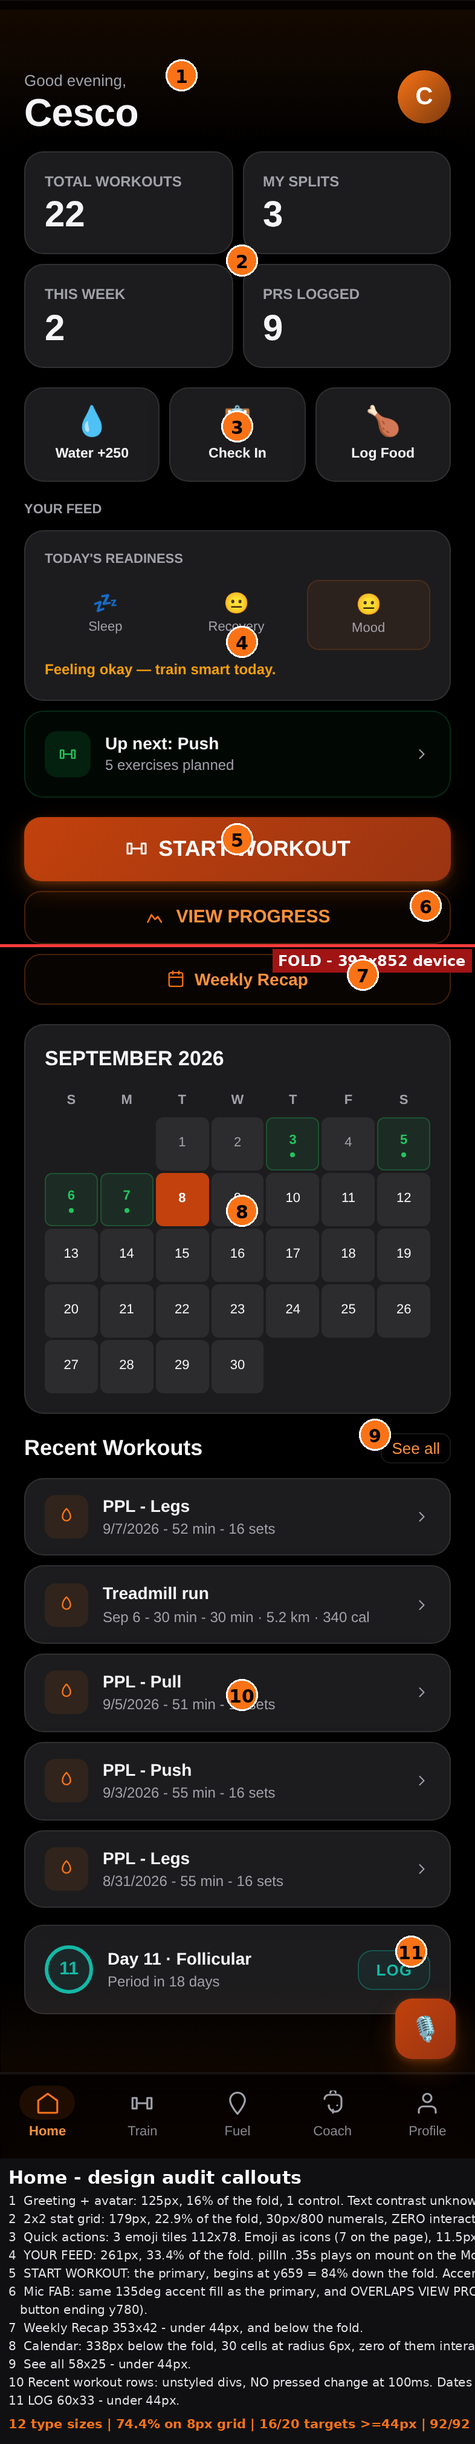
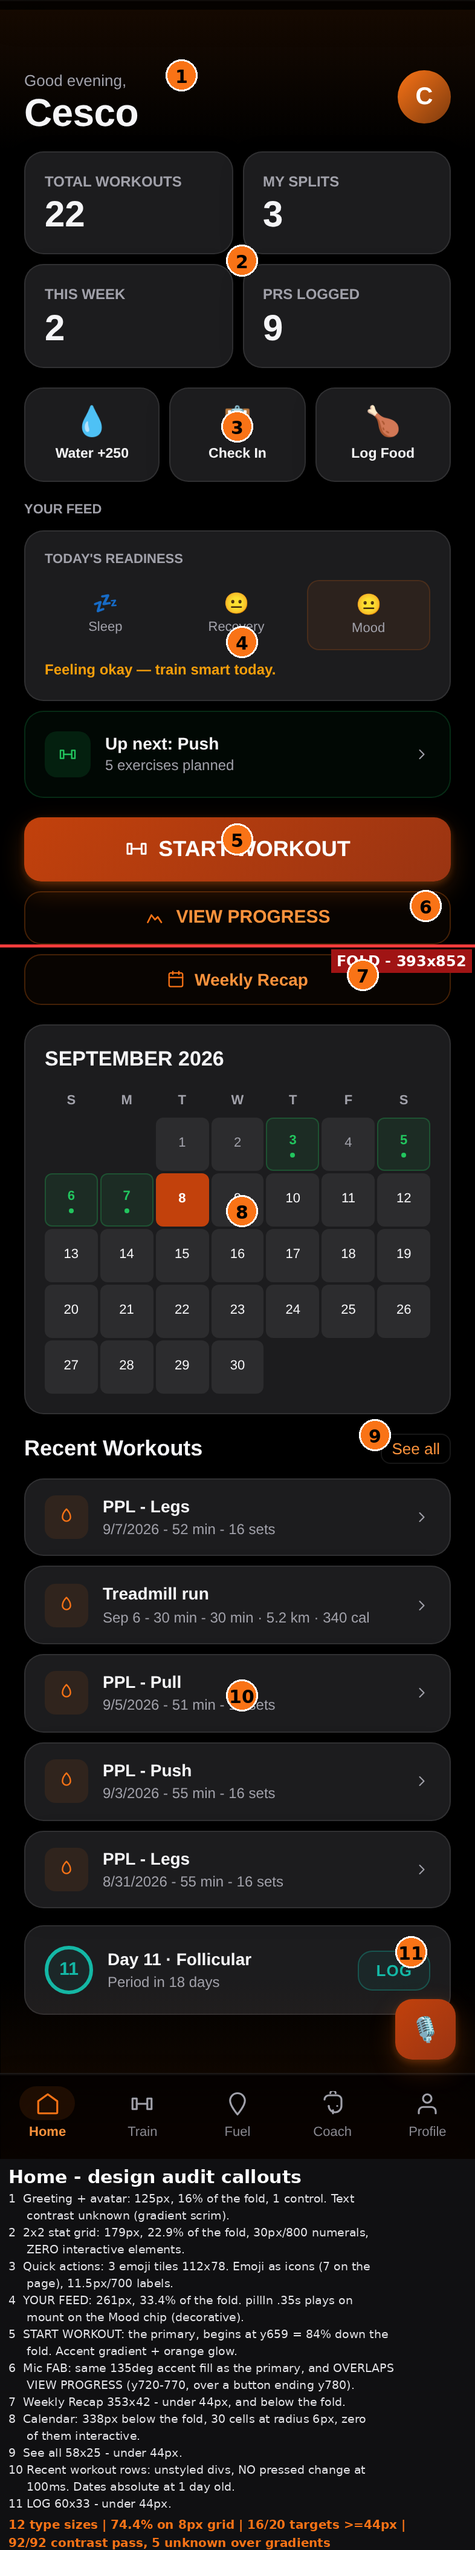
redesign: design audit home
Claude-Session: https://claude.ai/code/session_01YJKewqmQsqV5sHch9jXM4P

diff --git a/redesign/02-audit-design/progress.md b/redesign/02-audit-design/progress.md
@@ -1,51 +1,49 @@
 # Design Audit — Progress (`progress`)
 
-Evidence: `00-inventory/screenshots/current/progress-*.png`; `tests/baseline/scans/progress.json`; my own Playwright runs against `http://127.0.0.1:4173/tests/app/index.html` (iPhone 15 Pro, 393x852 CSS, seeded).
+Evidence: `00-inventory/screenshots/current/progress-*.png`; `tests/baseline/scans/progress.json`; my own Playwright runs on `http://127.0.0.1:4173/tests/app/index.html` (iPhone 15 Pro, 393x852, seeded).
 
 ## 1. Squint and 5-second test
 
-8px Gaussian blur on `progress-populated.png`. Two objects survive: the filled orange **Overview tab pill** and the global voice FAB. Next is the repeating green PR column (three identical bright blocks), then three grey slabs of equal mass. `ADD LIFT` — the page's only page-level action — blurs to a dim dashed band darker than the tab pill. **The element that wins is a navigation control, not an action.**
-
-5-second read: first the word PROGRESS, second the orange pill (read as "I am on Overview"), third the three cards. A first-time user calls this "a list of three lifts and their records" and does not see that the page also owns goals, a calendar, photos and a PR vault, because the fifth tab is off-screen.
+8px blur on `progress-populated.png`: two objects survive — the filled orange **Overview tab pill** and the global voice FAB. Next the repeating green PR column, then three grey slabs of equal mass. `ADD LIFT`, the page's only action, blurs to a band dimmer than the tab pill. **The winning element is a navigation control.** In 5 seconds a user reads PROGRESS, then "I am on Overview", then three lift cards, and calls the page "three lifts and their records" — never seeing that it also owns goals, a calendar, photos and a PR vault, because the fifth tab is off-screen.
 
 ## 2. Callouts
 
-See `progress-annotated.png`, markers 1-8, legend on the image.
+`progress-annotated.png`, markers 1-8, legend on the image.
 
 ## 3. Measurements
 
-**Tab strip (the page-specific question).** Container `clientWidth` 353px (`overflow-x: auto`, gap 8, padding 0). Content = 5 tabs (91.8 + 70.1 + 89.6 + 78.1 + 86.8) + 4 gaps = **448.4px**, `scrollWidth` 448. Content is **127% of container**; 95px (21%) is off-screen at rest. Tab lefts/rights: Overview 20-111.8, Goals 119.8-190, Calendar 198-287.6, Photos 295.6-**373.7**, PR Vault 381.7-468.4. Container right edge is 373. So **three tabs fully visible, Photos clipped 0.7px (~1%), PR Vault clipped 86.8px = 100%**. There is no chevron, no gradient mask, no partial peek and no scroll indicator; the strip is visually flush. This is a tab bar, not a labelled carousel, so **checklist 9 fails on scroll as well as on targets**. Root `scrollWidth` 393 = `clientWidth` 393, so the page-level check passes and hides the defect.
+**Tab strip.** Container `clientWidth` **353px** (`overflow-x:auto`, gap 8, pad 0); content = 5 tabs (91.8+70.1+89.6+78.1+86.8) + 4 gaps = **448.4px**, `scrollWidth` 448 — **127% of container, 95px (21%) off-screen at rest**. Rights: Overview 111.8, Goals 190, Calendar 287.6, Photos **373.7**, PR Vault 468.4; container edge 373. So **three tabs fully visible, Photos clipped 0.7px (1%), PR Vault clipped 86.8px = 100%**. No chevron, mask, peek or indicator. A tab bar is not a labelled carousel, so **item 9 fails on scroll as well as targets**. Root `scrollWidth` 393 = `clientWidth`, so the page-level check passes and hides it.
 
-**Contrast.** `scans/progress.json`: 37 checked, 37 pass, 0 fail, **6 unknown ("gradient")**. I resolved all six by sampling the rendered pixel under each node in `progress-populated.png`: unselected tab `#a1a1aa` on `#141315` = **7.23:1**; `PROGRESS` white on `#0d0601` = 20.12:1; selected tab white on `#c2410c` = **5.18:1**; PR green `#22c55e` on `#1c1c1e` = 7.47:1; accent `#fb923c` on `#1c1c1e` = 7.52:1. **43/43 pass (100%).**
+**Contrast.** `scans/progress.json`: 37 checked, 37 pass, 0 fail, **6 unknown ("gradient")**. I resolved all six by sampling the rendered pixel under each node in `progress-populated.png`: unselected tab `#a1a1aa` on `#141315` 7.23:1; `PROGRESS` 20.12:1; selected tab white on `#c2410c` **5.18:1**; PR green 7.47:1; `#fb923c` 7.52:1. **43/43 = 100%.**
 
-**Targets.** 16 interactive elements, **7 under 44x44 (56% pass)**: Back 22x27; the five tabs 33px tall (92/70/90/78/87 wide); on Calendar, Previous month and Next month 34x39. `ADD LIFT` 353x42 and `NEW GOAL` 353x51.
+**Targets.** 16 controls, **7 under 44x44 (56% pass)**: Back 22x27; five tabs 33 tall; Calendar month arrows 34x39. `ADD LIFT` 353x42, `NEW GOAL` 353x51.
 
-**Spacing.** Non-zero padding/gap/margin longhands, full page, nav and FAB excluded: 114 values, **101 on {4,8,12,16,24,32} = 88.6%**. Off-grid: 2px x6 (goal progress-bar radius/height), 20px x6 (page gutter), 58px x1 (header top). No breaks documented.
+**Spacing.** Non-zero padding/gap/margin longhands, full page, nav and FAB out: 114 values, **101 on {4,8,12,16,24,32} = 88.6%**. Off-grid: 2 x6, 20 x6 (gutter), 58 x1. No breaks documented.
 
-**Typography.** Distinct computed sizes on visible text: Overview 8 (32, 22, 20, 18, 14, 13, 12, 11); Goals adds 15; Calendar adds 17 — **10 across the page**. Weights 400 x12, 600 x5, 700 x21, 800 x9. 700/800 sit on 11px caps (`FEATURED LIFTS`, `CURRENT PR`, `DAY 1`) and 13px tab labels. Line-height is `normal` at 13px, 20px and one 14px node; the rest are 1.45x.
+**Typography.** Distinct visible sizes: Overview 8 (32/22/20/18/14/13/12/11), Goals +15, Calendar +17 = **10**. Weights 400 x12, 600 x5, 700 x21, 800 x9; 700/800 sit on 11px caps (`FEATURED LIFTS`, `CURRENT PR`, `DAY 1`) and 13px tabs. `line-height: normal` at 13, 20 and one 14px node.
 
-**Numbers.** 19 numeric text nodes, **0 with `tabular-nums`**. Units adjacent ("72.5kg"). Dates: `7/30/2026` on cards, `2026-07-28`/`2026-09-08` on the body-weight chart, `Due: 2026-12-01` in goal detail — three renderings, all absolute, including a 1-day-old entry.
+**Numbers.** 19 numeric nodes, **0 `tabular-nums`**. Units adjacent. Dates render three ways — `7/30/2026`, `2026-07-28`, `Due: 2026-12-01` — all absolute, including a 1-day-old entry.
 
-**Motion.** Real `mouse.down`, 100ms read: `ADD LIFT` scale(0.97)+shadow ✓; tab Goals ✓; Back ✓; unpin-x ✓; `NEW GOAL` ✓; Previous/Next month ✓ — **5/5 (7/7)**. `button:disabled{opacity:.4;cursor:not-allowed}` exists. Animation inventory: **zero** `animation-name` on the page. Transitions: 27x `background-color, box-shadow 0.24s`, 1x `box-shadow, transform 0.2s`, 1x 6-property 0.3s, 1x `background-color, color 0.3s` — all caused, none decorative. No insertion animation on Featured Lifts or Goals, both of which grow.
+**Motion.** Real `mouse.down`, 100ms read: `ADD LIFT`, tab Goals, Back, unpin-x, `NEW GOAL`, Previous/Next month — **7/7 change** (scale .97 + shadow). `button:disabled{opacity:.4;cursor:not-allowed}` exists. **Zero `animation-name`** on the page; 30 transition rows (27x `background-color, box-shadow .24s`), all caused, none decorative, no insertion animation on two growable lists.
 
-**Dark.** L* body 2.2 -> card 10.3 -> nested stat panel 18.1, strictly increasing. Zero white-on-black text nodes. Three shadows: two achromatic (blur 24, 20); one **accent glow** `rgba(249,115,22,.25) 0 2px 6px, rgba(249,115,22,.22) 0 8px 22px`. Border `#f97316` (L* 63.7) sits on an L* 2.2 surface, +61 L*.
+**Dark.** L* body 2.2 -> card 10.3 -> nested panel 18.1, strictly increasing; zero white-on-black text nodes. Shadows: two achromatic (blur 24, 20) and one **accent glow** `rgba(249,115,22,.25) 0 2px 6px, rgba(249,115,22,.22) 0 8px 22px`. Border `#f97316` (L* 63.7) on an L* 2.2 surface, +61 L*.
 
-**Accessibility.** axe: 1 violation, `meta-viewport` (critical, global shell), 18 passes. Tabs carry `role=tab`/`aria-selected`; Back and unpin are labelled. Calendar day cells are plain `div`s (47x47, `cursor:auto`) with no role — the month's data is unreachable by keyboard. At 120% text: no clipped node, no root overflow.
+**Accessibility.** axe: 1 violation, `meta-viewport` (critical, shell), 18 passes. Tabs have `role=tab`/`aria-selected`. Calendar day cells are plain 47x47 `div`s (`cursor:auto`), no role — the month is unreachable by keyboard. 120% text: no clipped node, no root overflow.
 
 ## 4. Rubric scores
 
 | criterion | score | evidence |
 |---|---|---|
-| Hierarchy | 2 | Squint on `progress-populated.png`: the winner is the Overview tab pill; `ADD LIFT` blurs dimmer than a nav control. 1 accent-filled element on the page and it is not an action; 3 identical cards. |
-| Typography | 1 | 10 distinct sizes (`progress-populated`/`-goals`/`-calendar`); 700 x21 and 800 x9, on 11px caps and 13px tab labels; line-height `normal` at 13/14/20px. Rule: 8+ sizes with 700+ on <=15px running text = 1. |
-| Spacing | 3 | 101/114 non-zero longhands on grid = 88.6%; off-grid 2 x6, 20 x6, 58 x1; no breaks documented. Band 80-94% = 3. |
-| Contrast | 5 | scan 37/37 pass, 6 unknown resolved by pixel sampling to 5.18-20.12:1. 43/43 = 100% measured. |
-| Component consistency | 1 | Tab pattern B (pill, radius 20) is unique to this page against 4 other implementations; 11 distinct radii in one page (20/16/14/10/9/8/6/3/2/999/50%); SVG icons on Overview vs emoji on Goals; cards radius 16 (Overview) vs 14 (Goals). `progress-populated.png` + `-goals.png`. |
-| Targets | 1 | 9/16 meet 44px = 56%; Back 22x27, tabs 33 tall, month arrows 34x39. Below 75% = 1. |
-| Motion and feedback | 5 | 7/7 controls change within 100ms under real press; zero `animation-name`; all 30 transition rows caused. |
-| HIG fit | 1 | 3 sections violated in `progress-populated.png`/`-calendar.png`: Tab bars (5th tab 100% off-screen, 33px tall), Layout (7 controls <44px), Typography (800 weight at 11px caps, 10 sizes). |
-| AI-look penalty | 1 | 4 tells: emoji as icons (`progress-populated-goals.png`, 3), stacked equal-weight cards (3), mixed radii (11), decorative gradient washes (393x144 + 393x150). |
-| Accessibility | 3 | axe 1 critical (`meta-viewport`) caps at 3; calendar day cells unlabelled `div`s; 120% text clean. |
+| Hierarchy | 2 | Squint on `progress-populated.png`: winner is the Overview tab pill; `ADD LIFT` blurs dimmer than a nav control. One accent-filled element, not an action; three identical cards. |
+| Typography | 1 | 10 sizes across `progress-populated`/`-goals`/`-calendar`; 700 x21, 800 x9 on 11px caps and 13px tabs; line-height unset at 13/14/20. 8+ with 700 on <=15px = 1. |
+| Spacing | 3 | 101/114 = 88.6%; off-grid 2 x6, 20 x6, 58 x1; undocumented. Band 80-94%. |
+| Contrast | 5 | 37/37 pass, 6 unknown resolved by pixel sampling to 5.18-20.12:1. 43/43 measured. |
+| Component consistency | 1 | Tab pattern B unique to this page against 4 others; 11 radii on one page (20/16/14/10/9/8/6/3/2/999/50%); SVG icons on Overview vs emoji on Goals; cards 16 vs 14. `progress-populated.png`, `-goals.png`. |
+| Targets | 1 | 9/16 meet 44px = 56%; Back 22x27, tabs 33 tall, arrows 34x39. Below 75%. |
+| Motion and feedback | 5 | 7/7 change within 100ms under real press; zero animations; every transition row caused. |
+| HIG fit | 1 | 3 sections violated (`progress-populated.png`, `-calendar.png`): Tab bars (5th tab 100% off-screen, 33px tall), Layout (7 controls <44px), Typography (800 at 11px, 10 sizes). |
+| AI-look penalty | 1 | 4 tells: emoji icons (`-goals.png`, 3), stacked equal-weight cards (3), mixed radii (11), decorative gradient washes (393x144 + 393x150). |
+| Accessibility | 3 | axe 1 critical (`meta-viewport`) caps at 3; calendar cells unlabelled `div`s; 120% clean. |
 
 **Design mean 2.3.**
 
@@ -53,30 +51,26 @@ See `progress-annotated.png`, markers 1-8, legend on the image.
 
 | # | Verdict | Measurement |
 |---|---|---|
-| 1 | FAIL | Squint winner is the Overview tab pill; `ADD LIFT` is dashed 353x42. One accent-filled element, and it is navigation. |
+| 1 | FAIL | Squint winner is the Overview pill; `ADD LIFT` dashed 353x42. |
 | 2 | FAIL | 10 distinct sizes; line-height unset at 13/14/20px. |
-| 3 | FAIL | 88.6% on grid, under 95%; no breaks documented. |
-| 4 | PASS | 7/7 controls change transform+box-shadow at 100ms; `button:disabled{opacity:.4}` rule present. |
-| 5 | FAIL | Zero decorative rows, but zero `animation-name` anywhere: Featured Lifts and Goals both grow with no insertion animation. |
-| 6 | FAIL | Goals empty (`progress-empty-goals.png`) has two action controls (`NEW GOAL` + `Body Fat Log` row) and an emoji; Overview empty renders the same three cards with "--". Error copy is correct ("Analysis unavailable. Check connection." + a toast naming the network). |
-| 7 | FAIL | 0/19 numeric nodes `tabular-nums`; three date renderings, all absolute, including a 1-day-old entry. |
-| 8 | FAIL | SVG line icons at 4 rendered widths (22/20/16/11 in a 24 box) plus 3 emoji (dumbbell, scales, triangle) on Goals. |
-| 9 | FAIL | Tab strip 448px in 353px, not a carousel, 5th tab 100% clipped; 7/16 targets under 44x44. |
-| 10 | FAIL | L* 2.2/10.3/18.1 ✓ and zero white-on-black ✓, but one accent-glow shadow (FAB) and a `#f97316` border +61 L* over its surface. |
-| 11 | PASS | Every label <=4 words; zero exclamation marks; empty copy is 18 words, one instruction. |
+| 3 | FAIL | 88.6% on grid (<95%), no breaks documented. |
+| 4 | PASS | 7/7 change transform+box-shadow at 100ms; `button:disabled{opacity:.4}` present. |
+| 5 | FAIL | Zero decorative rows, but zero `animation-name`: Featured Lifts and Goals both grow with no insertion animation. |
+| 6 | FAIL | `progress-empty-goals.png` has two action controls (`NEW GOAL` + `Body Fat Log`) and an emoji; Overview empty shows the same three cards with "--". Error copy is correct ("Analysis unavailable. Check connection." + toast naming the network). |
+| 7 | FAIL | 0/19 nodes `tabular-nums`; three date renderings, all absolute, one 1 day old. |
+| 8 | FAIL | SVG icons at 4 rendered widths (22/20/16/11 in a 24 box) plus 3 emoji on Goals. |
+| 9 | FAIL | 448px strip in a 353px container, not a carousel, 5th tab 100% clipped; 7/16 targets under 44. |
+| 10 | FAIL | L* 2.2/10.3/18.1 and zero white-on-black pass, but one accent-glow shadow (FAB) and a `#f97316` border +61 L* over its surface. |
+| 11 | PASS | Labels <=4 words; zero exclamations; empty copy 18 words, one instruction. |
 
 ## 6. Consistency deltas vs `design-system-current.md`
 
-- **Tab pattern.** Progress is §12.2 pattern **B** (`ProgressPage` 28611): no container, no track, item radius **20**, pad `8px 16px`, 13px/600, selected = solid `OR` with white text. A (`DsSegmented`) uses a `FILL_SOFT` track, radius 10/7, 13px/500. C (Shopping) uses a track radius 12, item 9, 12px/700. D (Coach) uses a track radius 12, item 9, 12px, plus a 7px dot. Progress is the **only** one with no container, the only one at radius 20, the only one carrying 5 items, and **the only one that overflows its container** — A, C and D divide a fixed track between 3-4 items and cannot clip. It is also the only pattern where the selected item is the brightest object on the screen.
-- **Radii.** 11 distinct on one page against the app's 30 and the target of 4.
-- **Cards.** 16 on Overview, 14 on Goals, 8 on calendar cells — three card/tile radii inside one page.
-- **Icons.** Two systems (SVG + emoji), four optical sizes; the design system claims one set.
-- **Accent.** Three orange tints (`#c2410c` fill, `#f97316` border/bar, `#fb923c` label) plus semantic green PR values and blue "84 days remaining" on one screen.
-
-**One system does not cover both densities.** Goals is a 3-row list of 84px cards with 18px titles and 20px percentages; Calendar is a 42-cell 47x47 grid at 17px with 11px legend text and 30 more 8px radii, sitting above ~600px of empty black. They share only the tab strip and the gutter. Calendar borrows nothing from the card language and adds a fourth radius, a fifth and sixth accent tint (dot legend), and its own type sizes (17, 11) — and it is the only sub-tab with no action at all.
+- **Tab pattern.** Progress is §12.2 pattern **B** (`ProgressPage` 28611): no container, no track, radius **20**, pad `8px 16px`, 13px/600, selected = solid `OR` + white. A (`DsSegmented`) uses a track, radius 10/7, 13px/500; C (Shopping) track 12 / item 9 / 12px 700; D (Coach) track 12 / item 9 / 12px + dot. Progress is the only one with no container, the only one at radius 20, the only one with 5 items, and **the only one that can overflow** — A, C and D divide a fixed track between 3-4 items and cannot clip. It is also the only pattern whose selected item is the brightest object on screen.
+- **Radii** 11 distinct on one page (app 30, target 4). **Cards** 16 Overview / 14 Goals / 8 calendar cells. **Icons** two systems, four optical sizes. **Accent** three orange tints plus semantic green and blue on one screen.
+- **One system does not cover both densities.** Goals is three 84px cards, 18px titles, 20px percentages. Calendar is a 42-cell 47x47 grid at 17px with an 11px four-colour legend, adding a fourth tile radius (8) and two more accent tints, then ~600px of empty black. They share only the tab strip and the 20px gutter; Calendar borrows nothing from the card language and is the only sub-tab with no action.
 
 ## 7. Keep, fix, cut
 
-- **Keep**: the PR delta pattern — DAY 1 -> CURRENT PR with a signed `+12.5kg` reads correctly at a squint (`progress-populated.png`), the only place on the page where weight matches importance.
-- **Fix**: the tab strip — 448px in 353px with the 5th tab 100% hidden; five destinations do not fit one row at 44px targets, so this must become a list or a two-level structure, not a wider pill.
-- **Cut**: the dashed-outline treatment on `ADD LIFT`/`NEW GOAL` (353x42 and 353x51, `#f97316` border at +61 L*) — it makes the primary action read as a placeholder and costs the page its hierarchy score.
+- **Keep**: the PR delta pattern — DAY 1 -> CURRENT PR with a signed `+12.5kg` survives the 8px blur (`progress-populated.png`), the one place where weight matches importance.
+- **Fix**: the tab strip — 448px of content in 353px with the fifth tab 100% hidden. Five destinations do not fit one row at 44px targets; this needs a list or a second level, not a wider pill.
+- **Cut**: the dashed-outline treatment on `ADD LIFT`/`NEW GOAL` (`#f97316` border at +61 L*, 353x42 and 353x51) — it makes the primary action read as a placeholder and costs the page its hierarchy.

diff --git a/redesign/02-audit-design/train-hub.md b/redesign/02-audit-design/train-hub.md
@@ -1,47 +1,47 @@
-# Design audit — Train Hub (`train-hub`)
+# Design audit; Train Hub (`train-hub`)
 
 Captures: `00-inventory/screenshots/current/train-hub-{populated,populated-full,populated-scrolled-3,populated-history,empty}.png`, `exercise-library-populated.png`. Numbers: `tests/baseline/{targets,contrast,axe}.json` and my Playwright dumps, 393×852 dark, populated seed.
 
 ## 1. Squint and 5-second test
 
-8px blur of `train-hub-populated.png`: three masses survive at equal weight — the white **TRAIN** wordmark (32px/800), the filled orange **Quick Start** pill, the orange **mic FAB**. Everything below dissolves into one grey slab. First TRAIN, second Quick Start, third the FAB; read as "a list of my workout programs."
+8px blur of `train-hub-populated.png`: three masses survive at equal weight; the white **TRAIN** wordmark (32px/800), the filled orange **Quick Start** pill, the orange **mic FAB**. Everything below dissolves into one grey slab. First TRAIN, second Quick Start, third the FAB; read as "a list of my workout programs."
 
-**Answer to the page question: no.** Quick Start wins among actions but does not start today's session — that is `Start day` (86×24, smallest of 33 targets) or split-card `Start` (164×39), and both vanish under the blur. The only accent-*filled* control starts an *unplanned* session; the planned path is accent-*outlined* text, two taps behind a chevron.
+**Answer to the page question: no.** Quick Start wins among actions but does not start today's session; that is `Start day` (86×24, smallest of 33 targets) or split-card `Start` (164×39), and both vanish under the blur. The only accent-*filled* control starts an *unplanned* session; the planned path is accent-*outlined* text, two taps behind a chevron.
 
 ## 2. Callouts
 
-`train-hub-annotated.png`; full legend printed on the image. 1 Quick Start · 2 underline sub-tabs · 3 Start-day chip · 4 footer Start · 5 footer Delete · 6 clipped RECENT carousel · 7 AI Builder/New · 8 chevron · 9 Adaptive chips · 10 emoji FAB + glow · 11 absolute date, 2 days old.
+`train-hub-annotated.png`; full legend printed on the image. 1 Quick Start, 2 underline sub-tabs, 3 Start-day chip, 4 footer Start, 5 footer Delete, 6 clipped RECENT carousel, 7 AI Builder/New, 8 chevron, 9 Adaptive chips, 10 emoji FAB + glow, 11 absolute date, 2 days old.
 
 ## 3. Measurements
 
-**Targets** (`targets.json`, min 44): 33 total, **19 under 44×44 — 42.4% pass**. Every failure is height, never width: `Start day` 86×**24** ×3 · `Quick Start` 107×34 · `Cardio` 88×34 · `AI Builder` 99×33 · `New` 70×33 · sub-tabs 118×**42** ×3 · footer `Start`/`Edit`/`Delete` 164/94/93×**39** ×3. Root `scrollWidth` = `clientWidth` 393; RECENT is a labeled carousel.
+**Targets** (`targets.json`, min 44): 33 total, **19 under 44×44; 42.4% pass**. Every failure is height, never width: `Start day` 86×**24** ×3, `Quick Start` 107×34, `Cardio` 88×34, `AI Builder` 99×33, `New` 70×33, sub-tabs 118×**42** ×3, footer `Start`/`Edit`/`Delete` 164/94/93×**39** ×3. Root `scrollWidth` = `clientWidth` 393; RECENT is a labeled carousel.
 
-**Contrast** (`contrast.json`): 97 checked, **97 pass, 0 fail, 2 unknown** — `Quick Start`'s label and the FAB glyph sit on gradients: unknown, not passing. One is the primary action.
+**Contrast** (`contrast.json`): 97 checked, **97 pass, 0 fail, 2 unknown**; `Quick Start`'s label and the FAB glyph sit on gradients: unknown, not passing. One is the primary action.
 
 **Spacing** (non-zero padding/gap/margin longhands, page scope, nav + FAB out): 474 values, **328 on {4,8,12,16,24,32} = 69.2%**, no breaks documented. Off-grid: `5px` ×96 (the chip's `5px 11px`), `10px` ×18, `11px` ×16, plus 16 others.
 
-**Typography**: 6 sizes — 32/15/14/13/12/11; weights 400/600/700/800 with **37 visible nodes at 700 ≤13px**; `line-height: normal` on 5 of 11 size/lh pairs; `tabular-nums` on **0** elements though 14363 kg, 16 sets and ~53h are figures. **Radii**: 8, 9, 10, 11, 12, 14, 16, 999.
+**Typography**: 6 sizes; 32/15/14/13/12/11; weights 400/600/700/800 with **37 visible nodes at 700 ≤13px**; `line-height: normal` on 5 of 11 size/lh pairs; `tabular-nums` on **0** elements though 14363 kg, 16 sets and ~53h are figures. **Radii**: 8, 9, 10, 11, 12, 14, 16, 999.
 
-**Pressed** (real `mouse.down()`, read at 100ms): Quick Start `transform` ✓ · History tab `transform`+`box-shadow` ✓ · footer Start same ✓ · footer **Delete none** ✗ · **Start day none** ✗ — 3 of 5.
+**Pressed** (real `mouse.down()`, read at 100ms): Quick Start `transform` ✓, History tab `transform`+`box-shadow` ✓, footer Start same ✓, footer **Delete none** ✗, **Start day none** ✗; 3 of 5.
 
-**Motion inventory**: animations `cardRise 0.5s`, `pillIn 0.45s` — entrances, decorative. Transitions `background-color, box-shadow .24s` ×60, `transform .25s` ×3, `max-height/opacity/visibility .4s` ×3 (expand), 2 singletons — all caused.
+**Motion inventory**: animations `cardRise 0.5s`, `pillIn 0.45s`; entrances, decorative. Transitions `background-color, box-shadow .24s` ×60, `transform .25s` ×3, `max-height/opacity/visibility .4s` ×3 (expand), 2 singletons; all caused.
 
-**Dark**: body L\* 0.0 → card `#1C1C1E` 10.3 → nested `#2C2C2E` 18.1, strictly increasing — but Quick Start and the FAB carry `rgba(249,115,22,0.25) 0 2px 6px, rgba(249,115,22,0.22) 0 8px 22px`, an accent glow. **axe**: 1 violation, `meta-viewport` (critical, shell), 16 passes.
+**Dark**: body L\* 0.0 → card `#1C1C1E` 10.3 → nested `#2C2C2E` 18.1, strictly increasing; but Quick Start and the FAB carry `rgba(249,115,22,0.25) 0 2px 6px, rgba(249,115,22,0.22) 0 8px 22px`, an accent glow. **axe**: 1 violation, `meta-viewport` (critical, shell), 16 passes.
 
 ## 4. The split card as a component
 
-Header (icon, name, meta line, chevron), optional day list, then a **three-cell footer: `Start` | `Edit` | `Delete`** — all 39px tall, 13px, radius 0, transparent, one equal-weight row. `Start` is `#FB923C` at 700, `Delete` `#F05151` at **400**: the destructive action is *lighter* than the primary, and hue is the only separator. Under the blur, or with a red-green deficit, cells 1 and 3 are indistinguishable, `Delete` sits on the outer edge where a thumb lands, and it has no pressed state to warn on a mis-tap.
+Header (icon, name, meta line, chevron), optional day list, then a **three-cell footer: `Start` | `Edit` | `Delete`**; all 39px tall, 13px, radius 0, transparent, one equal-weight row. `Start` is `#FB923C` at 700, `Delete` `#F05151` at **400**: the destructive action is *lighter* than the primary, and hue is the only separator. Under the blur, or with a red-green deficit, cells 1 and 3 are indistinguishable, `Delete` sits on the outer edge where a thumb lands, and it has no pressed state to warn on a mis-tap.
 
 The page also carries **three "start" idioms**: `Quick Start` (gradient pill, r14, 14px/700), `Start day` (tinted chip, r999, 11px/700, 86×24), footer `Start` (text, r0, 13px/700, 164×39).
 
-## 5. Rubric — Design (mean 2.0)
+## 5. Rubric; Design (mean 2.0)
 
 | Criterion | Score | Evidence |
 |---|---|---|
 | Hierarchy | 2 | 8px blur of `train-hub-populated.png`: TRAIN, Quick Start and the FAB survive at equal weight; 11 further accent controls compete; the semantic primary (`Start day` 86×24) disappears. |
 | Typography | 3 | 6 sizes; line-height unset on 5 of 11 pairs; 700 on 37 nodes ≤13px. `-populated-full.png`. |
 | Spacing | 2 | 328/474 = 69.2%, undocumented. Band 2 = 60–79%. |
-| Contrast | 4 | 97/97 known pass, 0 fail; 2 unknown over gradients — one being the primary action's own label. |
+| Contrast | 4 | 97/97 known pass, 0 fail; 2 unknown over gradients; one being the primary action's own label. |
 | Component consistency | 1 | 3 "start" variants (r14 pill / r999 chip / r0 row); 8 radii. `-populated-full.png`, `-scrolled-3.png`. |
 | Targets | 1 | 14/33 = 42.4% ≥44px, band 1 (<75%); `targets.json`. |
 | Motion and feedback | 2 | 3 of 5 pressed (base 3); decorative `cardRise`/`pillIn` entrances → −1. |
@@ -49,7 +49,7 @@ The page also carries **three "start" idioms**: `Quick Start` (gradient pill, r1
 | AI-look penalty | 1 | 4 tells: emoji icon (🎙 FAB), 8 mixed radii, gradient + glow button, stacked equal-weight split cards. |
 | Accessibility | 3 | 1 critical `meta-viewport` (shell) caps at 3; focus order = DOM = visual; sub-tabs expose no `aria-selected`; three identical "Delete" names carry no split context. |
 
-## 6. Detail checklist — 1 / 11
+## 6. Detail checklist; 1 / 11
 
 | # | Item | Verdict | Measurement |
 |---|---|---|---|
@@ -57,7 +57,7 @@ The page also carries **three "start" idioms**: `Quick Start` (gradient pill, r1
 | 2 | Type scale | fail | `line-height: normal` on the 14/13/12/11px variants (5 of 11 pairs). |
 | 3 | 8px grid | fail | 69.2% (328/474) vs 95%. |
 | 4 | Control states | fail | `Delete` and `Start day` unchanged at 100ms under real `mouse.down()`. |
-| 5 | Meaningful motion | fail | `cardRise 0.5s`, `pillIn 0.45s` — load entrances. |
+| 5 | Meaningful motion | fail | `cardRise 0.5s`, `pillIn 0.45s`; load entrances. |
 | 6 | Empty/error copy | fail | `train-hub-empty.png` has **two** action controls (Build Manually, AI Split Builder); rule is one. Error N/A. |
 | 7 | Numbers | fail | 0 `tabular-nums`; "9/7/2026" absolute at 2 days old, beside "Sep 6". |
 | 8 | One icon set | fail | 1 emoji (🎙) as the FAB icon. |
@@ -68,14 +68,14 @@ The page also carries **three "start" idioms**: `Quick Start` (gradient pill, r1
 ## 7. Consistency deltas vs `design-system-current.md`
 
 - **A sixth tab idiom.** §12.2 lists A `DsSegmented` (r10/7), B ProgressPage pills (r20), C ShoppingBudget (r12/9), D CoachScreen (r12/9), E r999 chips, F nav. Train Hub's sub-tabs match none: `flex:1`, `padding 12px 0`, **radius 0**, no container fill, selected = `2px solid #F97316` bottom border + `#FB923C` 600 (L15375–15391). It is the only underline bar, the only one with no container and no radius, and it skips the `role=tablist`/`aria-selected` A alone has. The screen also uses idiom **E** (r999, L15751) for `Start day` and the Adaptive chips.
-- **Radii** 8 here vs 30 app-wide: card 12/14/16, chips 999, `New` 8, strays 9 and 11. **Cards**: split cards `#1C1C1E` r16 with `0 1px 2px / 0 6px 20px rgba(0,0,0,0.18)`; History rows share the fill with no shadow — one object type, two elevations. **Accent**: 12 accent-coloured controls in one viewport, so it no longer signals "primary". **Icons**: 14/16/22px plus one emoji.
+- **Radii** 8 here vs 30 app-wide: card 12/14/16, chips 999, `New` 8, strays 9 and 11. **Cards**: split cards `#1C1C1E` r16 with `0 1px 2px / 0 6px 20px rgba(0,0,0,0.18)`; History rows share the fill with no shadow; one object type, two elevations. **Accent**: 12 accent-coloured controls in one viewport, so it no longer signals "primary". **Icons**: 14/16/22px plus one emoji.
 
 ## 8. Keep, fix, cut
 
-- **Keep**: the underline sub-tab row — the app's clearest tab affordance; it needs only 44px height and tablist semantics.
-- **Fix**: make split-card `Start` the filled primary at ≥44px and pull `Delete` out of that row — today they are 39px siblings separated by hue, `Delete` at the lighter weight.
-- **Cut**: `Quick Start` or the `Start day` chips — three "start" idioms, and the loudest is the least likely intent.
+- **Keep**: the underline sub-tab row; the app's clearest tab affordance; it needs only 44px height and tablist semantics.
+- **Fix**: make split-card `Start` the filled primary at ≥44px and pull `Delete` out of that row; today they are 39px siblings separated by hue, `Delete` at the lighter weight.
+- **Cut**: `Quick Start` or the `Start day` chips; three "start" idioms, and the loudest is the least likely intent.
 
 ## After reading the function audit
 
-No score changes. One disagreement: its §7 reads the empty state as "one action", but `train-hub-empty.png` shows **two**, so my checklist 6 still fails — a design rule, not a function defect. It names a motion defect I did not measure (the day panel collapses with `visibility 0s linear .4s`, L15697–15705, leaving `Start day` un-hittable for 400ms), which reinforces Motion 2 without moving it. We reached "demote Quick Start" independently.
+No score changes. One disagreement: its §7 reads the empty state as "one action", but `train-hub-empty.png` shows **two**, so my checklist 6 still fails; a design rule, not a function defect. It names a motion defect I did not measure (the day panel collapses with `visibility 0s linear .4s`, L15697–15705, leaving `Start day` un-hittable for 400ms), which reinforces Motion 2 without moving it. We reached "demote Quick Start" independently.

diff --git a/redesign/02-audit-design/coach-chat.md b/redesign/02-audit-design/coach-chat.md
@@ -9,7 +9,7 @@ Evidence: `screenshots/current/coach-chat-*.png`, `baseline/scans/coach-chat.jso
 5 seconds: "a coach thing with four tabs and a message box." The conversation reads as unformatted body copy because only user turns are bubbles. Purpose is inferable; the primary action is not.
 
 ## 2. Callouts
-Legend printed on `coach-chat-annotated.png`: (1) 195px header stack, (2) 10x12 rename, (3) one-sided bubbles, no timestamps, (4) `Edit · re-runs` per turn, (5) unstyled replies, (6) Copy/Retry 36x32, (7) FAB over SAVE PLAN, (8) Send inert until typed, (9) composer.
+Nine numbered markers with a printed legend on `coach-chat-annotated.png`.
 
 ## 3. Measurements
 
@@ -18,7 +18,7 @@ Legend printed on `coach-chat-annotated.png`: (1) 195px header stack, (2) 10x12 
 | Style | fg / bg | ratio |
 |---|---|---|
 | 32/800 title | `#F5F5F7` / `#0D0D0F` | 17.8 |
-| 12/400 subtitle + tabs | `#A1A1AA` / `#0D0D0F` | 7.6 |
+| 12/400 subtitle, tabs | `#A1A1AA` / `#0D0D0F` | 7.6 |
 | 12/700 active tab | `#FB923C` / `#1C1C1E` | 7.5 |
 | 16/400 bubble text | `#F5F5F7` / accent 11.8% on black | 17.3 |
 | 16/400 reply text | `#F5F5F7` / `#000` | 18.7 |
@@ -26,28 +26,28 @@ Legend printed on `coach-chat-annotated.png`: (1) 195px header stack, (2) 10x12 
 | emoji on gradient FAB | — | **unknown** |
 | bubble border | `rgba(249,115,22,.19)` / `#000` | **1.24, fails 3:1** |
 
-**Targets** (scan, 18 interactive): 7 under 44x44 = **61% pass** — `✎` 10x12; New chat 79x32; Edit 130x32 (x2); Copy 36x32 (x2); Retry 36x32. Empty adds six 28x28 chip `×`. Pass: tabs 83x48, textarea 307x50, Send 46x46, FAB 50x50.
+**Targets** (scan, 18 interactive): 7 under 44x44 = **61% pass** — `✎` 10x12; New chat 79x32; Edit 130x32 (x2); Copy 36x32 (x2); Retry 36x32. Empty adds six 28x28 `×`. Pass: tabs 83x48, textarea 307x50, Send 46x46, FAB 50x50.
 
 **Spacing**: 99 non-zero longhands (nav and FAB excluded); 71 in {4,8,12,16,24,32} = **71.7% on grid**. Off-grid: 58, 20x3, 10x4, 7x2, 6x10, 2x8, undocumented.
 
 **Type**: populated 4 sizes (11/12/16/32), weights 400–800; empty adds 13/14/17 → **7 across states**. `line-height:normal` on 10 of 18 nodes. Zero `tabular-nums`.
 
-**Other**: header takes 195 of 852 css px (23%) before the first message. No horizontal overflow. Thread pinned to bottom on entry (scrollTop 184 = max). Enter sends; textarea grows 48→120px. The FAB (50x50, `linear-gradient(135deg,#C2410C,#9A3412)`, glow `rgba(249,115,22,.25) 0 2px 6px` + `.22 0 8px 22px`) **overlaps SAVE PLAN in a plan reply by 37x21px = 7% of that 335x31 button**, painting above it.
+**Other**: header takes 195 of 852 css px (23%) before the first message. No horizontal overflow. Thread pinned to bottom on entry (scrollTop 184 = max). Enter sends; textarea grows 48→120px. The FAB (50x50, gradient `#C2410C→#9A3412`, glow `rgba(249,115,22,.25) 0 2px 6px` + `.22 0 8px 22px`) **overlaps SAVE PLAN in a plan reply by 37x21px = 7% of that 335x31 button**, painting above it.
 
 ## 4. Rubric scores (Design)
 
 | criterion | score | evidence |
 |---|---|---|
-| Hierarchy | 2 | 8px-blur squint winner is the voice FAB, second the logo tile; Send is `opacity 0.4` grey until typed. Two accent-filled elements, neither primary. `coach-chat-populated.png` |
-| Typography | 3 | 4 sizes populated / 7 across states; `line-height:normal` on 10/18 nodes; 700 on a 12px tab label. `coach-chat-populated.png`, `coach-chat-empty-full.png` |
+| Hierarchy | 2 | Squint winner is the voice FAB, second the logo tile; Send is `opacity 0.4` grey until typed. Two accent-filled elements, neither primary. `coach-chat-populated.png` |
+| Typography | 3 | 4 sizes populated, 7 across states; `line-height:normal` on 10/18 nodes; 700 on a 12px label. `coach-chat-populated.png` |
 | Spacing | 2 | 71/99 non-zero longhands on grid = 71.7%, band 60–79%. `coach-chat-populated.png` |
 | Contrast | 4 | 20/20 text nodes pass; 1 unknown (emoji over gradient FAB); bubble border 1.24:1 fails the 3:1 boundary rule. `coach-chat-populated.png` |
-| Component consistency | 2 | Two variants of one component: user turn = 16px bubble, assistant turn = transparent, 0 radius, full-bleed. Radii 8/10/12/14/16 over six element types. `coach-chat-populated.png` |
+| Component consistency | 2 | Two variants of one component: user turn = 16px bubble, reply = transparent, 0 radius, full-bleed. Radii 8/10/12/14/16 over six element types. `coach-chat-populated.png` |
 | Targets | 1 | 7/18 under 44 = 61% pass, below 75%. `scans/coach-chat.json`; `coach-chat-populated.png` |
-| Motion and feedback | 4 | Real `mouse.down` at 100ms: Send, Chat tab, New chat, Copy, FAB all changed (scale 0.97/1.08 or shadow) = 5/5. −1: `pillIn` 0.35s load-in, and appended messages do not animate. `coach-chat-populated-typed.png` |
+| Motion and feedback | 4 | Real `mouse.down` at 100ms: Send, Chat tab, New chat, Copy, FAB all changed (scale 0.97/1.08 or shadow) = 5/5. −1: `pillIn` 0.35s load-in; appended messages do not animate. `coach-chat-populated-typed.png` |
 | HIG fit | 2 | Two sections violated: Layout (7 controls under 44) and Buttons (primary rendered as a disabled grey control; 36x32 text buttons). `coach-chat-populated.png` |
-| AI-look penalty | 1 | 4 tells: emoji as icon (🎙, `✎`); decorative gradient + accent glow on FAB and logo tile; mixed radii; template copy "Ask me anything about your training". `coach-chat-populated.png`, `coach-chat-empty-full.png` |
-| Accessibility | 3 | axe: 1 critical `meta-viewport` (global shell) → capped at 3. All 18 controls labelled; focus order matches reading order; 120% untested. `scans/coach-chat.json` |
+| AI-look penalty | 1 | 4 tells: emoji as icon (🎙, `✎`); gradient + accent glow on FAB and logo tile; mixed radii; template copy "Ask me anything about your training". `coach-chat-empty-full.png` |
+| Accessibility | 3 | axe: 1 critical `meta-viewport` (global shell) caps at 3. All 18 controls labelled; focus order matches reading order. `scans/coach-chat.json` |
 
 **Design mean 2.4.**
 
@@ -58,9 +58,9 @@ Legend printed on `coach-chat-annotated.png`: (1) 195px header stack, (2) 10x12 
 | 1 | Primary action | **fail** | Squint winner is the FAB; Send is opacity 0.4 |
 | 2 | Type scale | **fail** | 7 sizes across states; `line-height:normal` on 10/18 nodes |
 | 3 | 8px grid | **fail** | 71.7%; breaks (58, 20, 10, 7, 6, 2) undocumented |
-| 4 | Control states | **pass** | 5/5 changed at 100ms under real press; `button:disabled{opacity:.4}` exists, Send uses it |
+| 4 | Control states | **pass** | 5/5 changed at 100ms, real press; `button:disabled{opacity:.4}` exists, Send uses it |
 | 5 | Meaningful motion | **fail** | `pillIn` 0.35s load-in; the message list grows with no insertion animation |
-| 6 | Empty/error copy | **fail** | Empty (`coach-chat-empty-full.png`): headline + 6 chips + 6 dismiss × + disclosure + disclaimer = 13 controls, over 2 lines and one action. Error is correct with Retry; fails on empty |
+| 6 | Empty/error copy | **fail** | Empty (`coach-chat-empty-full.png`): headline + 6 chips + 6 `×` + disclosure + disclaimer = 13 controls. Error is correct with Retry; fails on empty |
 | 7 | Numbers | **fail** | Zero `tabular-nums`; "72.5 kg", "87.5 kg" proportional; no timestamp on any turn |
 | 8 | One icon set | **fail** | 🎙 FAB and `✎` rename beside 1.8-stroke `Ic` SVGs |
 | 9 | Scroll and targets | **fail** | No horizontal overflow, but 7 targets under 44 |
@@ -70,17 +70,17 @@ Legend printed on `coach-chat-annotated.png`: (1) 195px header stack, (2) 10x12 
 ## 6. Consistency deltas vs `design-system-current.md`
 
 - **Radii**: 8 (New chat), 10, 12 (tabs), 14 (Send, FAB), 16 (bubble, textarea) — five values, six element types.
-- **Tab pattern**: a filled 12px-radius pill on a transparent 83x48 track — a third pattern beside flat nav items and `DsSegmented`.
-- **Card style**: the app card is `--color-card #1C1C1E` at 16px; the assistant reply is transparent at 0 radius, so the densest content is the one thing that is not a card — while the plan card inside a reply is.
+- **Tabs**: a filled 12px-radius pill on a transparent 83x48 track — a third pattern beside flat nav items and `DsSegmented`.
+- **Card style**: the app card is `--color-card #1C1C1E` at 16px; the reply is transparent at 0 radius, so the densest content is the one thing that is not a card — while the plan card inside a reply is.
 - **Icons**: `Ic` defaults z=20 / stroke 1.8; here a 20px emoji and a 12px text glyph.
 - **Accent**: four accent surfaces at once (logo gradient, active tab, bubble fill, FAB); none is the primary action.
 
 ## 7. Keep, fix, cut
 
-- **Keep**: composer behaviour — Enter sends, textarea grows 48→120px, thread pinned to bottom on entry, Send `disabled` on empty.
-- **Keep**: error state — "The coach is down. Not your fault." with Retry (`coach-chat-error.png`).
+- **Keep**: composer — Enter sends, textarea grows 48→120px, thread pinned to bottom on entry, Send `disabled` on empty.
+- **Keep**: error state, "The coach is down. Not your fault." with Retry (`coach-chat-error.png`).
 - **Fix**: make Send the one accent-filled control; it is invisible at 8px blur while the FAB wins.
-- **Fix**: give replies a real surface (`--color-card`, 16px) so both speakers are one component in two states.
+- **Fix**: give replies a real surface (`--color-card`, 16px) so both speakers are one component, two states.
 - **Fix**: 7 targets under 44; the 10x12 rename and 36x32 Copy/Retry are worst.
 - **Fix**: add a timestamp per turn or day group; the thread carries no time information.
 - **Cut**: the voice FAB here — it wins the squint, is an emoji on a glowing gradient, and covers 37x21px of SAVE PLAN.
